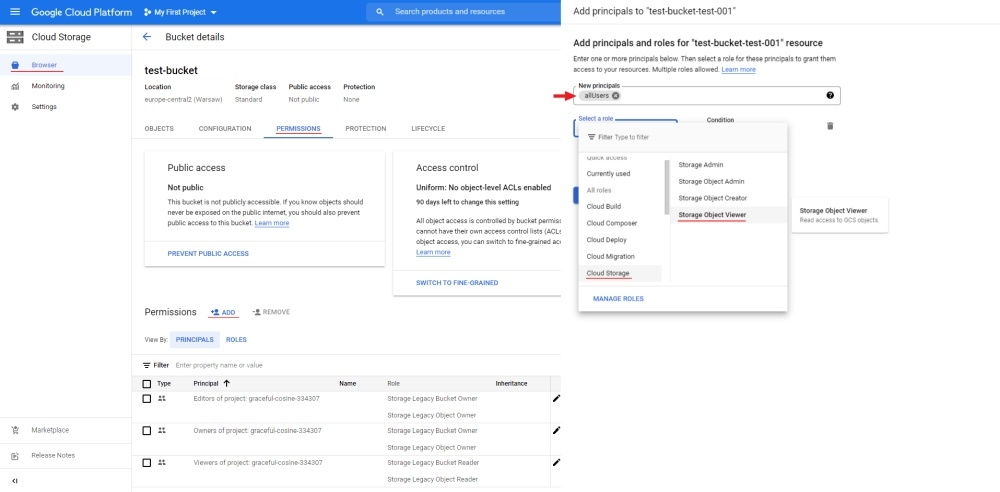
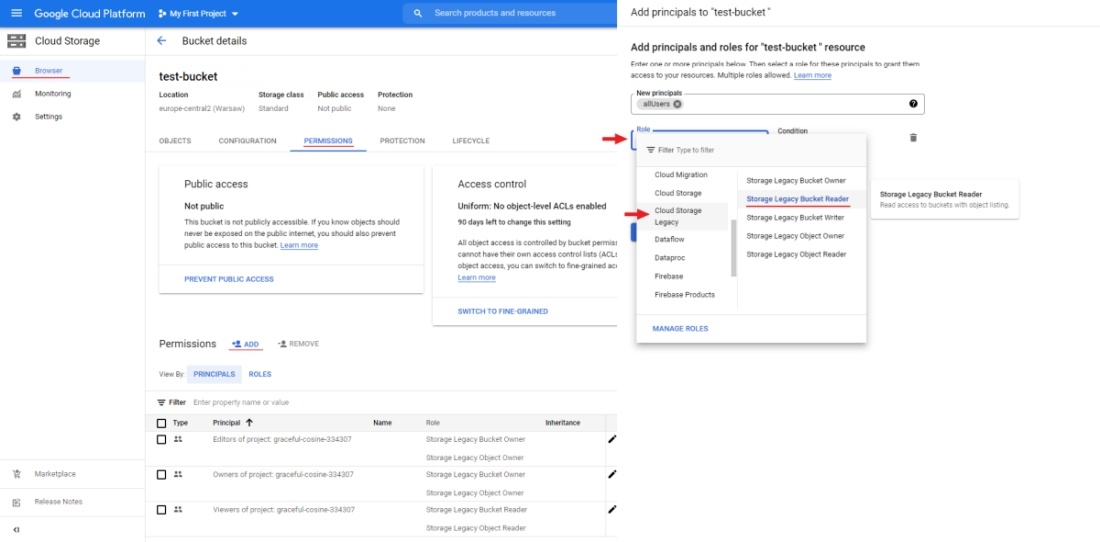
apply suggestion

diff --git a/site/content/en/docs/manual/basics/attach-cloud-storage.md b/site/content/en/docs/manual/basics/attach-cloud-storage.md
@@ -166,12 +166,12 @@ Prepare the dataset as in the point [prepare dataset](#prepare-dataset).
 
 Now you can attach new cloud storage into CVAT.
 
-## Using Google cloud storage
+## Using Google Cloud Storage
 
 ### Create Google account
 
 First, create a Google account, go to [account login page](https://accounts.google.com/) and click `Create account`.
-After [registering in 3 steps](https://console.cloud.google.com/freetrial) enter the required data
+After, go to the [Google Cloud page](https://cloud.google.com), click `Get started`, enter the required data
 and accept the terms of service (you'll need credit card information to register).
 
 ### Create a bucket
@@ -181,8 +181,8 @@ To create a bucket, go to the [cloud storage page](https://console.cloud.google.
 and press `Create bucket`. Next, enter the name of the bucket, add labels if necessary, select the type of location
 for example region and the location nearest to you, select storage class, when selecting access control
 you can enable `Enforce public access prevention on this bucket` (if you plan to have anonymous access to your bucket,
-it should be disabled) you can select `Uniform` or `Fine-grained` access control, if you need protection of your object data
-select protect object data type. When all the information is entered click `Create` to create the bucket.
+it should be disabled) you can select `Uniform` or `Fine-grained` access control, if you need protection of your
+object data select protect object data type. When all the information is entered click `Create` to create the bucket.
 
 ![](/images/google_cloud_storage_tutorial1.jpg)
 
@@ -220,14 +220,14 @@ The key file will be downloaded automatically.
 #### Anonymous access
 
 To configure anonymous access, open your bucket and go to the permissions tab click `ADD` to add new principals.
-In `new principals` field specify `allUsers`, select role for example `Cloud Storage`/`Storage Object Viewer`
+In `new principals` field specify `allUsers`, select role for example `Cloud Storage Legacy`/`Storage Legacy Bucket Reader`
 and press `SAVE`.
 
 ![](/images/google_cloud_storage_tutorial4.jpg)
 
 ## Attach new cloud storage
 
-After you upload the dataset and manifest file to AWS-S3, Azure Blob Container or Google cloud storage
+After you upload the dataset and manifest file to AWS-S3, Azure Blob Container or Google Cloud Storage
 you will be able to attach a cloud storage. To do this, press the `Attach new cloud storage`
 button on the `Cloud storages` page and fill out the following form:
 
@@ -277,7 +277,8 @@ button on the `Cloud storages` page and fill out the following form:
 
   - [Google Cloud](https://cloud.google.com/docs):
 
-    - [`Bucket name`](https://console.cloud.google.com/storage/browser/) - cloud storage bucket name.
+    - [`Bucket name`](https://cloud.google.com/storage/docs/creating-buckets) - cloud storage bucket name,
+      you can find the created bucket on the [storage browser page](https://console.cloud.google.com/storage/browser).
 
     - `Authorization type`:
 
@@ -288,8 +289,9 @@ button on the `Cloud storages` page and fill out the following form:
 
     - `Prefix` - used to filter data from the bucket.
 
-    - [`Project ID`](https://console.cloud.google.com/cloud-resource-manager) - note that the project name does
-      not match the project ID.
+    - [`Project ID`](https://cloud.google.com/resource-manager/docs/creating-managing-projects) - you can find
+      the created project on the [cloud resource manager page](https://console.cloud.google.com/cloud-resource-manager),
+      note that the project name does not match the project ID.
 
     - `Location` - here you can choose a region from the list or add a new one. To get more information click
       on [`?`](https://cloud.google.com/storage/docs/locations#available-locations).
